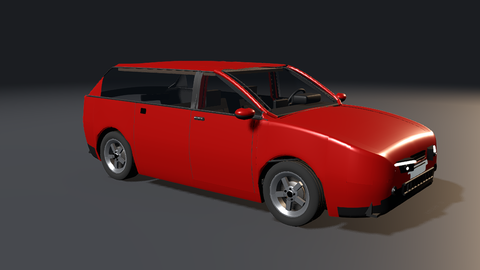
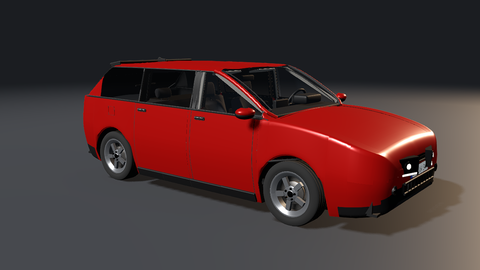
Procedural cars: real headlight and tail lamp units
The headlights of the procedural bodies were 12 cm dark slots with a thin
bright strip and read as air vents. They are now lamp units: a narrow dark
bezel round a chrome reflector, two projectors with lit lenses and an
L-shaped daytime running light, 17 cm tall (12 on coupes), with the top
just under the nose line so the curving bonnet no longer covers the upper
corners. Tail lamps get a dark housing, a red lens over most of it with a
brake-light band and a white reversing lamp at the inner end (they were two
thin red strips). Visual geometry only, skinned to the same nodes; menu
thumbnails re-rendered.

Claude-Session: https://claude.ai/code/session_01Mew6yuoqkdYBDMrEikaviS

diff --git a/core/src/car_visual.cpp b/core/src/car_visual.cpp
@@ -1251,23 +1251,35 @@ void buildCarVisual(CarBuild& build, const Profile& prof, const CarRig& rig) {
     {
         const real xf = L;
         const real hwF = prof.halfW(L - 0.04);
-        const real yH = bd.noseHeight - 0.075;
-        const real lightW = std::min<real>(0.20, 0.30 * hwF);
         const bool sport = bd.style == BodyStyle::Coupe;
+        // Headlight units: a narrow dark bezel round a chrome reflector, two projectors with lit
+        // lenses and an L-shaped daytime running light along the lower and outer edge. 17 cm tall
+        // (12 on coupes) and set a little higher on the face; they used to be 12 cm dark slots
+        // with a thin bright strip, which read as air vents rather than lamps.
+        const real housingH = sport ? 0.06 : 0.085;
+        // The top stays just under the nose line: above it the face already curves back into the
+        // bonnet and the paint would cover the unit's upper corners.
+        const real yH = bd.noseHeight - 0.012 - housingH;
+        const real lightW = std::min<real>(0.23, 0.33 * hwF);
         for (int side = 0; side < 2; ++side) {
             const real sg = side ? 1.0 : -1.0;
-            const real zc = sg * (hwF - lightW - 0.05);
-            // Lens slightly yawed to follow the rounded corner.
+            // Outer end kept clear of the rounded corner, where the body surface curves back.
+            const real zc = sg * (hwF - lightW - 0.085);
+            // Lens yawed to follow the rounded corner.
             const Vec3 ax = normalize(Vec3{1.0, 0.0, sg * 0.35});
             const Vec3 az = normalize(cross(ax, Vec3{0, 1, 0})) * -1.0;
-            const real housing = sport ? 0.045 : 0.058;
-            vb.box("grille", {xf - 0.035, yH, zc}, {0.030, housing, lightW + 0.015}, bodyNodes, ax, {0, 1, 0}, az);
-            vb.box("headlight", {xf + 0.002, yH + housing * 0.60, zc}, {0.016, 0.009, lightW}, bodyNodes, ax, {0, 1, 0}, az);
-            for (real lens : {-0.48, 0.40}) {
-                const Vec3 center = Vec3{xf + 0.006, yH - 0.012, zc} + az * (lens * lightW);
-                vb.tube("chrome", center - ax * 0.008, center + ax * 0.014, housing * 0.45, bodyNodes, 20);
-                vb.tube("grille", center + ax * 0.014, center + ax * 0.017, housing * 0.35, bodyNodes, 20);
-                vb.tube("headlight", center + ax * 0.018, center + ax * 0.021, housing * 0.24, bodyNodes, 20);
+            const real housing = housingH;
+            const Vec3 c0{xf - 0.035, yH, zc};
+            vb.box("grille", c0, {0.030, housing, lightW + 0.015}, bodyNodes, ax, {0, 1, 0}, az);                       // bezel
+            vb.box("chrome", c0 + ax * 0.026, {0.008, housing - 0.012, lightW - 0.006}, bodyNodes, ax, {0, 1, 0}, az);  // reflector
+            // Daytime running light: along the bottom and up the outer end.
+            vb.box("headlight", c0 + ax * 0.036 + Vec3{0, -housing + 0.018, 0}, {0.006, 0.008, lightW - 0.02}, bodyNodes, ax, {0, 1, 0}, az);
+            vb.box("headlight", c0 + ax * 0.036 + az * (-sg * (lightW - 0.02)) + Vec3{0, -0.006, 0}, {0.006, housing - 0.03, 0.008}, bodyNodes, ax, {0, 1, 0}, az);
+            for (real lens : {-0.42, 0.36}) {
+                const Vec3 center = c0 + ax * 0.034 + az * (lens * lightW) + Vec3{0, 0.012, 0};
+                vb.tube("grille", center - ax * 0.004, center + ax * 0.006, housing * 0.52, bodyNodes, 20);
+                vb.tube("chrome", center + ax * 0.006, center + ax * 0.012, housing * 0.44, bodyNodes, 20);
+                vb.tube("headlight", center + ax * 0.012, center + ax * 0.018, housing * 0.30, bodyNodes, 20);
             }
         }
         // Grille between the headlights.
@@ -1299,9 +1311,15 @@ void buildCarVisual(CarBuild& build, const Profile& prof, const CarRig& rig) {
             const real zc = sg * (hwR - tw - 0.04);
             const Vec3 ax = normalize(Vec3{1.0, 0.0, -sg * 0.3});
             const Vec3 az = normalize(cross(ax, Vec3{0, 1, 0})) * -1.0;
-            vb.box("grille", {0.009, yT, zc}, {0.023, sport ? 0.034 : 0.048, tw + 0.015}, yT > lidLatchY ? lidNodes : bodyNodes, ax, {0, 1, 0}, az);
+            // Tail lamp: dark housing, a red lens over most of it with a lighter brake-light band
+            // and a white reversing lamp at the inner end (it was two thin red strips).
+            const auto& tailNodes = yT > lidLatchY ? lidNodes : bodyNodes;
+            const real th = sport ? 0.042 : 0.062;
+            vb.box("grille", {0.009, yT, zc}, {0.023, th, tw + 0.015}, tailNodes, ax, {0, 1, 0}, az);
+            vb.box("taillight", Vec3{0.009, yT, zc} - ax * 0.026, {0.006, th - 0.01, tw - 0.004}, tailNodes, ax, {0, 1, 0}, az);
+            vb.box("headlight", Vec3{0.009, yT - th * 0.35, zc} - ax * 0.031 + az * (sg * (tw - 0.05)), {0.004, th * 0.4, 0.04}, tailNodes, ax, {0, 1, 0}, az);
             for (real stripe : {-0.015, 0.017})
-                vb.box("taillight", {-0.011, yT + stripe, zc}, {0.010, 0.009, tw}, yT > lidLatchY ? lidNodes : bodyNodes, ax, {0, 1, 0}, az);
+                vb.box("taillight", Vec3{0.009, yT + stripe, zc} - ax * 0.032, {0.004, 0.006, tw - 0.012}, tailNodes, ax, {0, 1, 0}, az);
         }
         vb.box("plate", {-0.020, yT - 0.145, 0.0}, {0.013, 0.046, 0.23}, yT - 0.145 > lidLatchY ? lidNodes : bodyNodes);
         // Lettering anchors: the rear plate's outer face, the front plate region's centre.

diff --git a/docs/ACCEPTANCE_STATUS.md b/docs/ACCEPTANCE_STATUS.md
@@ -6,7 +6,7 @@ konkrete Teilergebnisse und erklärt das Gesamtprodukt noch nicht für fertig.
 
 | Bereich | Nachgewiesene Änderung | Noch offen |
 |---|---|---|
-| Fahrzeugdarstellung | Kennzeichen vorn und hinten an allen Fahrzeugen (an der Karosserie mitbewegt, `plates_test`); Abgerundetes Cockpit, Instrumente mit realer Telemetrie, sichtbarer Motorraum unter gestützter Haube; Tages-/Nachtbilder in 1920×1080 geprüft; echte Cockpit-Außenspiegel mit korrigierter Kestrel-Blickrichtung; Innenraum mit konturierten Sitzen, Rückbank, Gurten, Teppich, Dachhimmel, Pedalen; Unterboden mit Abgasanlage, Hitzeschild, Trägern und Radhausschalen (auch für importierte Modelle) | Handmodellierte Detailqualität, vollständige Referenzbildserie |
+| Fahrzeugdarstellung | Kennzeichen vorn und hinten an allen Fahrzeugen (an der Karosserie mitbewegt, `plates_test`); Abgerundetes Cockpit, Instrumente mit realer Telemetrie, sichtbarer Motorraum unter gestützter Haube; Tages-/Nachtbilder in 1920×1080 geprüft; echte Cockpit-Außenspiegel mit korrigierter Kestrel-Blickrichtung; Innenraum mit konturierten Sitzen, Rückbank, Gurten, Teppich, Dachhimmel, Pedalen; Unterboden mit Abgasanlage, Hitzeschild, Trägern und Radhausschalen (auch für importierte Modelle); Scheinwerfer der prozeduralen Autos als Einheiten mit schmaler Blende, Chromreflektor, zwei Projektoren mit hellen Linsen und L-förmigem Tagfahrlicht, 17 cm hoch (Coupés 12 cm) knapp unter der Bugkante (vorher 12 cm hohe dunkle Schlitze, die wie Lufteinlässe wirkten); Rückleuchten mit dunklem Gehäuse, roter Lichtscheibe, Bremslichtband und weißem Rückfahrlicht (vorher zwei dünne rote Streifen) | Handmodellierte Detailqualität, vollständige Referenzbildserie |
 | Teile und Schaden | Kestrel-Stoßfänger vorn/hinten besitzen eigene Käfige/Masse, brechbare Halter und unabhängige Darstellung; Haube stößt gegen eigene Dach-/Motorflächen; Kestrel-Vordertüren öffnen/schließen mit getrennten Schlössern und Scharnieren und können abreißen; Scheinwerfer und Rückleuchten gehen je Ecke mit der Verformung der Karosserie kaputt und bleiben bis zur Reparatur dunkel (`lamp_damage_test`); Stoßfänger hängen an vier Clipgruppen (6 kN) und reißen eckweise ab, die Gegenseite bleibt bei Aufprallen dran; Türen mit getrennten Scharnieren (12 kN) und Schlössern (10 kN): beim Seitenaufprall bleibt die abgewandte Tür zu (`a side impact leaves the far door shut…`); viertürige Karosserien haben eigene Hintertüren (vom hinteren Radlauf bis vor die B-Säule, Scharniere an der B-Säule, Schlösser, Öffnung auf 62°, Türverkleidung, Scheibe und Rahmen wandern mit; Pausenmenü „Hintertüren öffnen / schließen“), auch bei den importierten Meridian-Limousinen, dem Estate und dem Trailhead entlang der Scharnier- und Fugenlinien des Modells (`frontDoorHingeX`, `bPillarX`, `rearDoorHingeX`, `rearDoorRearX`); Heckklappe (Estate, Trailhead mit Reserverad) bzw. Kofferraumdeckel (Limousinen, Fastback) als eigenes Bauteil an den Modellscharnieren mit Scharnier-/Schlossbruchgruppen und Gasdruckfedern auf Kanal 6, öffnet im Stand auf ~80° bzw. ~70° (`tailgate and boot lid release…`, `tailgate_test`, `Shift`+`O`); Haube und Heckklappe haben wie die Türen ein reversibles Schloss: erneutes `O`/`Shift`+`O` senkt sie ab, das Schloss fängt die Klappe auch zugeschlagen und zieht sie zu (`bonnet and tailgate open on their struts, close again and relatch…`); ein Heckaufprall mit 50 km/h lässt das Heckklappenschloss aufspringen, die Klappe bleibt als Teil an den Scharnieren; importierte Modelle werden an ihren Rädern auf die Achsen ausgerichtet (der Trailhead saß 18 cm vor seinen Rädern); Auto-gegen-Auto: nach einem Auffahrunfall lösen sich die Karosserien wieder – früher verhakte sich ein Knoten in einer Falte der anderen Haut (gegenläufige Flächen, nach innen zeigende Splitterdreiecke am Heck), beide fuhren als Einheit und wurden dann weggeschleudert; jetzt löst jeder Knoten nur noch seinen besten Kontakt auf, und die Hautdreiecke zeigen auch an Bug und Heck nach außen (`a rear-ended car drives away…`, 24 Auffahrszenarien geprüft); Scheiben reißen spinnennetzartig vom Aufprallpunkt aus, Seiten- und Heckscheiben platzen heraus; Splitter von Leuchten, Clips und Türen; Bordsteinschläge: ein Laufflächenpunkt über dem 4,5-fachen der statischen Radlast verbiegt die Felge (Leck), sehr harte Schläge schlitzen den Reifen; seitlich mit 30 km/h gegen einen 12-cm-Bordstein ist der Reifen platt, mit 12 km/h passiert nichts (`sliding a wheel into a kerb…`); Spurstangen geben ab 45 kN nach; Karosserie-Schleifen (Aufsetzen, Bordstein, Dach) erzeugt Kratzgeräusch und Funkenfächer an der Kontaktstelle, keine Fehlauslösung bei normaler Fahrt, Vollbremsung und harter Kurve (`body_scrape_test`, Render `spark_shot`) | Kompatible Segmentierung des importierten Concept (Haube, Türen, Heck); allgemeiner Kantenkontakt; Auffahrunfall, bei dem ein hohes SUV auf das Heck eines Kombis aufsteigt und dort liegen bleibt (physikalisch plausibel, aber unrealistisch weit); mit gehaltener Betriebsbremse und Handbremse zugleich blieb eine Hintertür nach dem Schließen 2–4° vor dem Schloss stehen (verspannte Karosserie an der Fuge); Auto Hold gibt deshalb bei gezogener Handbremse die Betriebsbremse frei, die Ursache an der Türfuge ist offen |
 | Fahrphysik | Alle sieben nativen Prüfstände bestehen Einfedern, Beschleunigen, Bremsen und Kurvenfahrt. Fahrwiderstand kalibriert (Kestrel 100 km/h: 1.910 → 419 N; Rollwiderstand c_rr 0,007–0,019 von 30 bis 130 km/h statt bis 0,047, mit 20 Laufflächen-Nodes und Hysterese-Moment; ein ungebremst geparktes Auto kommt zur Ruhe statt ±3 cm zu schaukeln), Reifenmembran ohne Stehwellen-Resonanz, starrer Radträger, Federbeindom, Achsträger, Mischbereifung Concept (achsweise Reifenmasse, kein Pendeln mehr): Vollgas-Spitzen 208–337 km/h (Kestrel 208, Aurora 246), alle Fahrzeuge geradeaus bis zur Höchstgeschwindigkeit ([Messung](DRIVING_RESISTANCE.md)); Überdrehzahl schadet dem Motor: „Geldschaltung" mit 150 km/h in den 1. Gang zerstört ihn (Pleuel), kostet ~55 % Getriebe und Kupplungsbelag, vernünftiges Zurückschalten bleibt folgenlos (`a money shift into 1st…`); Motorschäden wie bei BeamNG: Pleuellager (Klopfen bis Pleuelriss), Kolbenringe (Ölverbrennung), Ölmangel bei wenig Öl in Kurven, Fahrzeugbrand (`oil on a hot engine…`, `fire_test`); Bremsen halten statisch am Hang: voll gebremst bei 30 %, nur mit Handbremse bei 20 % keine Bewegung und kein Schaukeln (Haltebremse als gedämpfte Winkelfeder bis zum Klemmmoment, Haftreibung auch auf Positionsebene; vorher kroch ein gebremstes Auto bei 15 % mit 1,5 km/h, `brakes hold a car on a steep hill…`) | Einzelne Rollwiderstands-Resonanzbuckel (Fastback 80 km/h c_rr 0,021); Renderfrequenz-Vergleich und Langzeitfahrt mit mehreren beschädigten Fahrzeugen |
 | Testgelände | Freie Bremsgerade als Start, Wegweiser, Servicezufahrt, Nachtlampen, kollidierende Dächer, bepflanzte Innenflächen, Geländebermen und Randbegrenzung; rot-weiße Curbs in beiden Ovalkurven, kollidierende Reifenstapel hinter der Auslaufzone, Tribüne mit Dach und Fahnen an der Nordgeraden | – |
